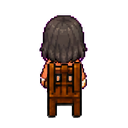
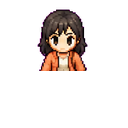
update

Changed region(s): [[0.2812, 0.0625, 0.6875, 0.9375]]

diff --git a/game.js b/game.js
@@ -53,8 +53,8 @@ const baseCellW = interior.w / 30;
 const grid = { cols: 24, rows: 12, x: interior.x + baseCellW * 3, y: interior.y, w: baseCellW, h: interior.h / 12 };
 const streetY = 642;
 const INGREDIENT_COST = 12;
-const DEBUG_VERSION = "v72";
-const SEATED_Y_OFFSET = -25;
+const DEBUG_VERSION = "v73";
+const SEATED_Y_OFFSET = -50;
 const WEEKLY_RENT = 5000;
 const VICTORY_CASH = 300000;
 const TABLE_COST = 250;
@@ -1547,24 +1547,17 @@ function updateWaiter(waiter, dt) {
 
   if (task.kind === "seat") {
     if (task.step === 0 && moveAlongPath(waiter, dt, taskSpeed)) {
-      task.customer.state = "入座";
+      task.customer.state = "思考";
+      task.customer.table = task.table;
+      task.customer.timer = 3 + Math.random() * 8;
       const seatPixels = seatedPixels(task.seat);
       task.customer.grid = { ...task.seat };
       task.customer.x = seatPixels.x;
       task.customer.y = seatPixels.y;
-      setPath(waiter, task.seat);
-      task.step = 1;
-    } else if (task.step === 1) {
-      const waiterArrived = moveAlongPath(waiter, dt, taskSpeed);
-      if (waiterArrived) {
-        task.customer.state = "思考";
-        task.customer.table = task.table;
-        task.customer.timer = 3 + Math.random() * 8;
-        clearNeed(task.customer);
-        gainWaiterXp(waiter, "seat");
-        adjustWaiterHappiness(waiter, 0.15);
-        finishWaiterTask(waiter);
-      }
+      clearNeed(task.customer);
+      gainWaiterXp(waiter, "seat");
+      adjustWaiterHappiness(waiter, 0.15);
+      finishWaiterTask(waiter);
     }
   }
 
@@ -1940,17 +1933,17 @@ function isCustomerSeated(actor) {
 
 function bubbleDisplayText(text) {
   return {
-    "...": "🤔",
-    "等位": "等位",
-    "點菜": "點菜",
-    "等餐": "等餐",
-    "上菜": "上菜",
-    "結帳": "結帳",
-    "用餐": "用餐",
+    "...": "💬",
+    "等位": "🪑",
+    "點菜": "🍝",
+    "等餐": "🍝",
+    "上菜": "🍝",
+    "結帳": "💳️",
+    "用餐": "😋",
     "滿足": "😊",
     "憤怒": "😡",
-    "清潔中": "清潔中",
-    "骯髒": "骯髒"
+    "清潔中": "🫧",
+    "骯髒": "🧹"
   }[text] || text;
 }
 
@@ -1967,7 +1960,11 @@ function drawBubble(x, y, text, color = "#fff4cf") {
   ctx.fill();
   ctx.stroke();
   ctx.fillStyle = "#2b2114";
+  if(isEmoji){
+  ctx.fillText(displayText, x - tw / 2, y - 10);
+  }else{
   ctx.fillText(displayText, x - tw / 2, y - 12);
+  }
   ctx.restore();
 }
 
@@ -2006,8 +2003,8 @@ function render() {
   }
   for (const t of state.tables) {
     drawPlacedObject(t);
-    if (t.order === "served") drawAsset("food", t.variant, t.x + 2, t.y - 12, 21, 15);
-    if (t.dirty) drawAsset("dirty", t.variant, t.x + 1, t.y - 12, 23, 15);
+    if (t.order === "served") drawAsset("food", t.variant, t.x , t.y , 21, 15);
+    if (t.dirty) drawAsset("dirty", t.variant, t.x , t.y, 23, 15);
   }
 
   if (state.mode === "setup") drawSetupStaff();

diff --git a/index.html b/index.html
@@ -115,6 +115,6 @@
         </div>
       </section>
     </main>
-    <script src="game.js?v=72"></script>
+    <script src="game.js?v=73"></script>
   </body>
 </html>